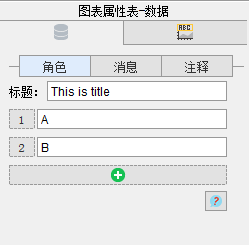
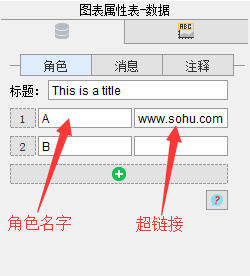
link and download
增加超链接和下载功能

Changed region(s): [[0.0, 0.0, 1.0, 0.8857]]

diff --git a/index.html b/index.html
@@ -15,12 +15,13 @@
 <img src="images/actor.png">
 <p>1、输入标题。</p>
 <p>2、输入角色名字。注：角色名字不能为空；不能重复；通过“+”按钮增加；通过点击名字前的序号位置的删除按钮可删除。</p>
+<p>3、输入超链接。注：如果没有，可以省略。</p>
 <h2>二、定义消息</h2>
 <img src="images/signal.png">
 <p>消息由三个部分组成：1、消息内容；2、箭头样式；3、消息的发送者和接收者。</p>
 <h2>三、定义注释（可选）</h2>
 <img src="images/note.png">
-<p>注释由二个部分组成：1、注释内容；2、注释所在位置，可指定位于某角色左或右，或者横跨多个角色。</p>
+<p>注释由三个部分组成：1、注释内容；2、超链接（可省略）；3、注释所在位置，可指定位于某角色左或右，或者横跨多个角色。</p>
 <h2>样式设置</h2>
 <p>一、默认样式</p>
 <img src="images/style.png">
